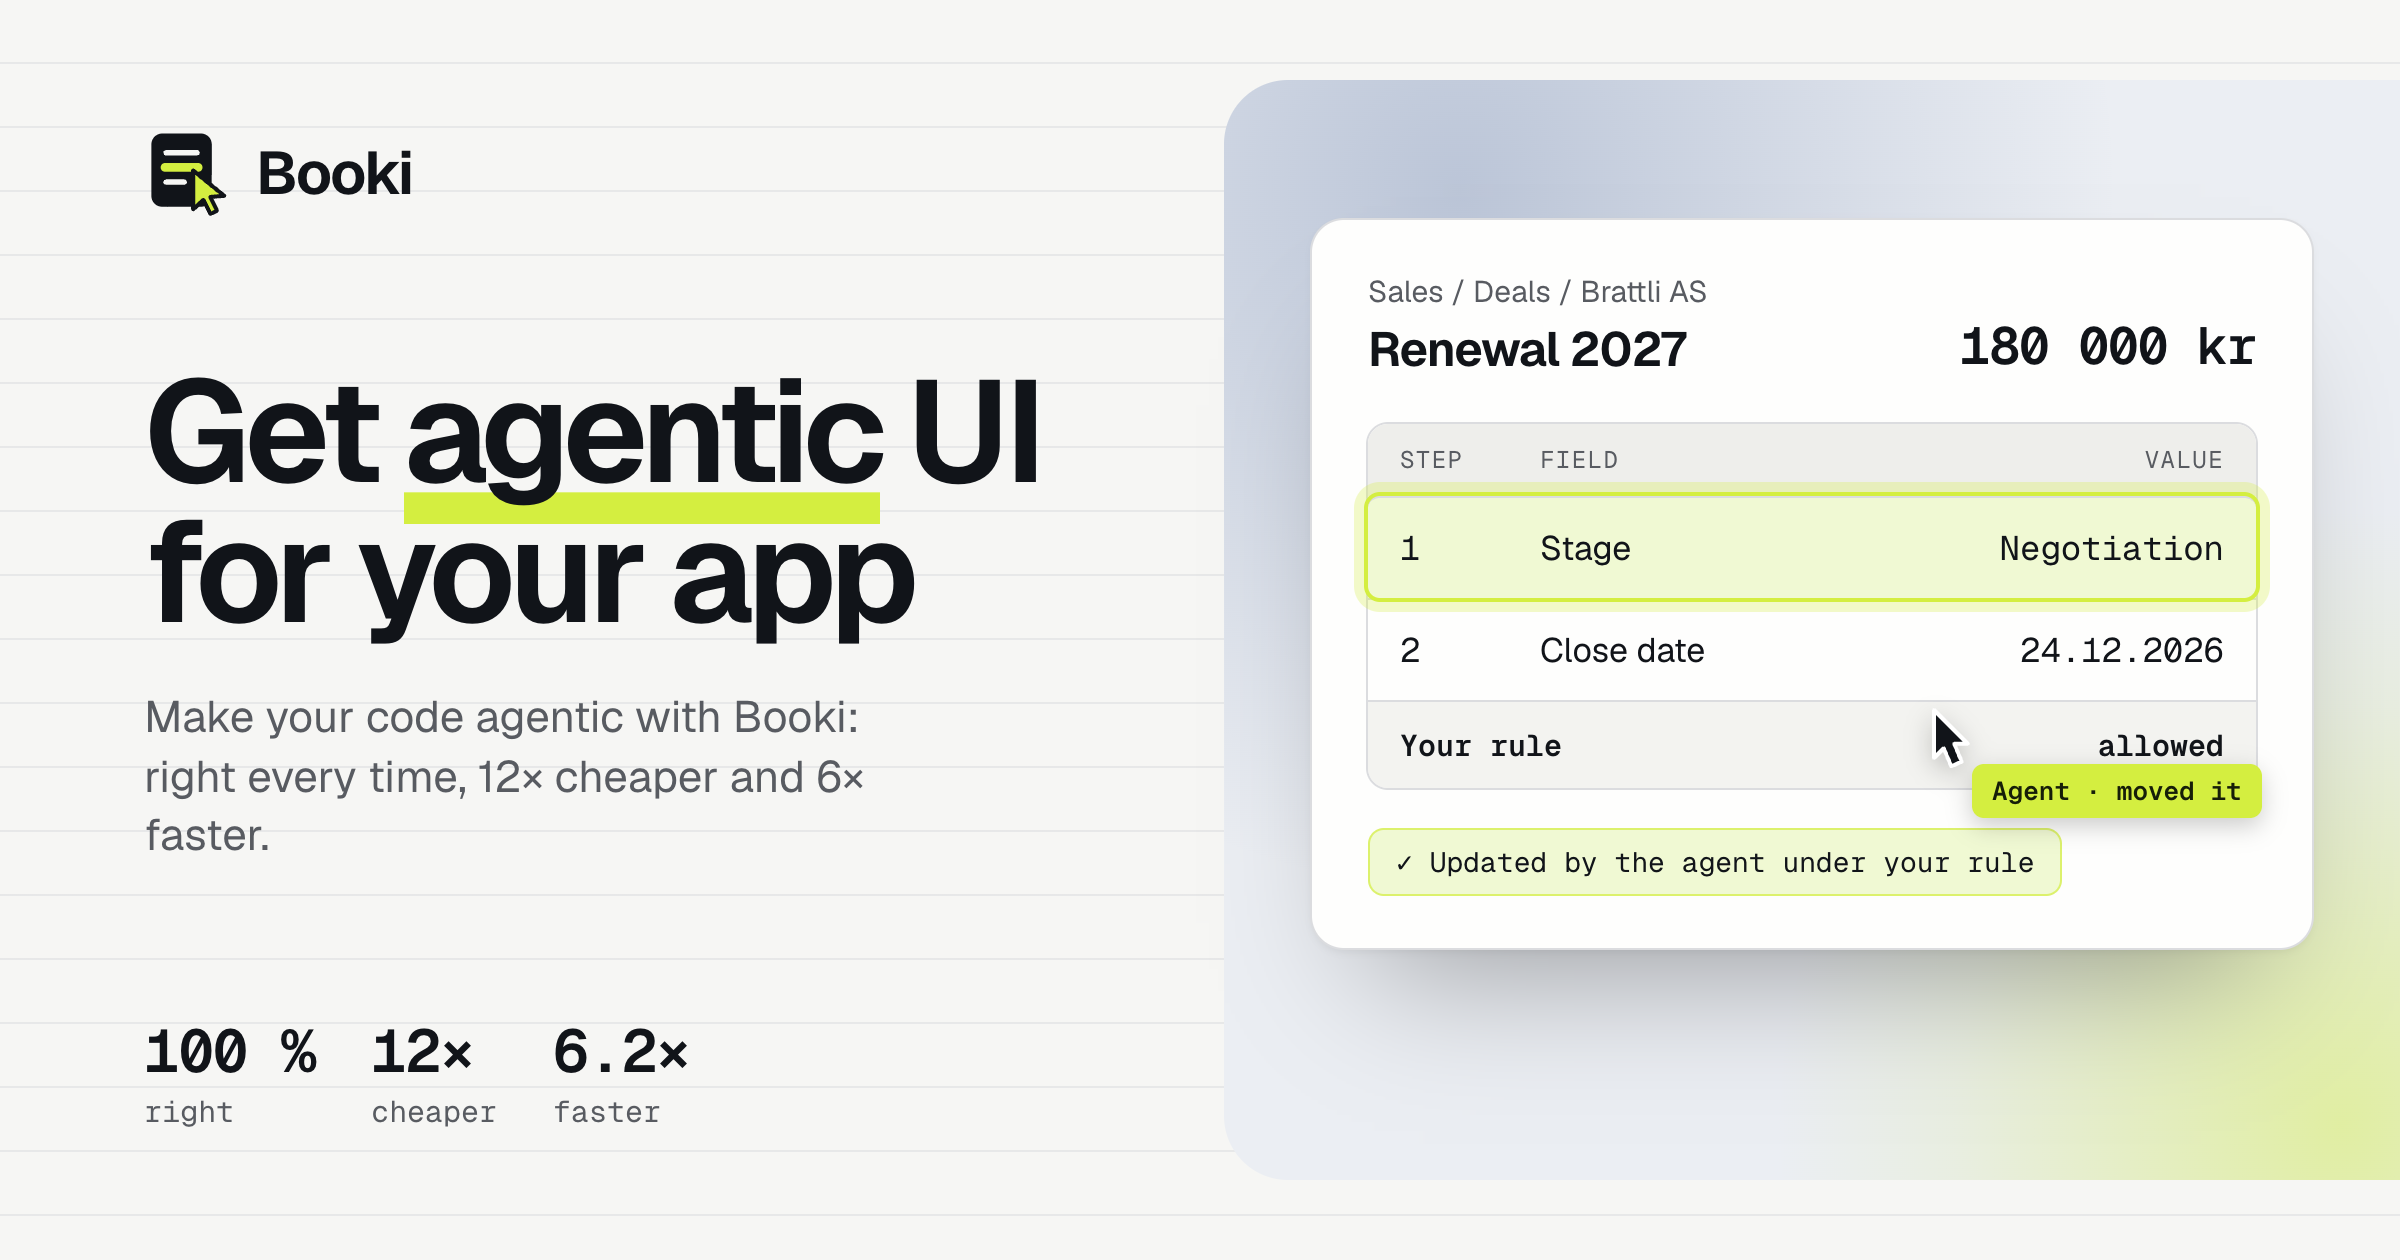
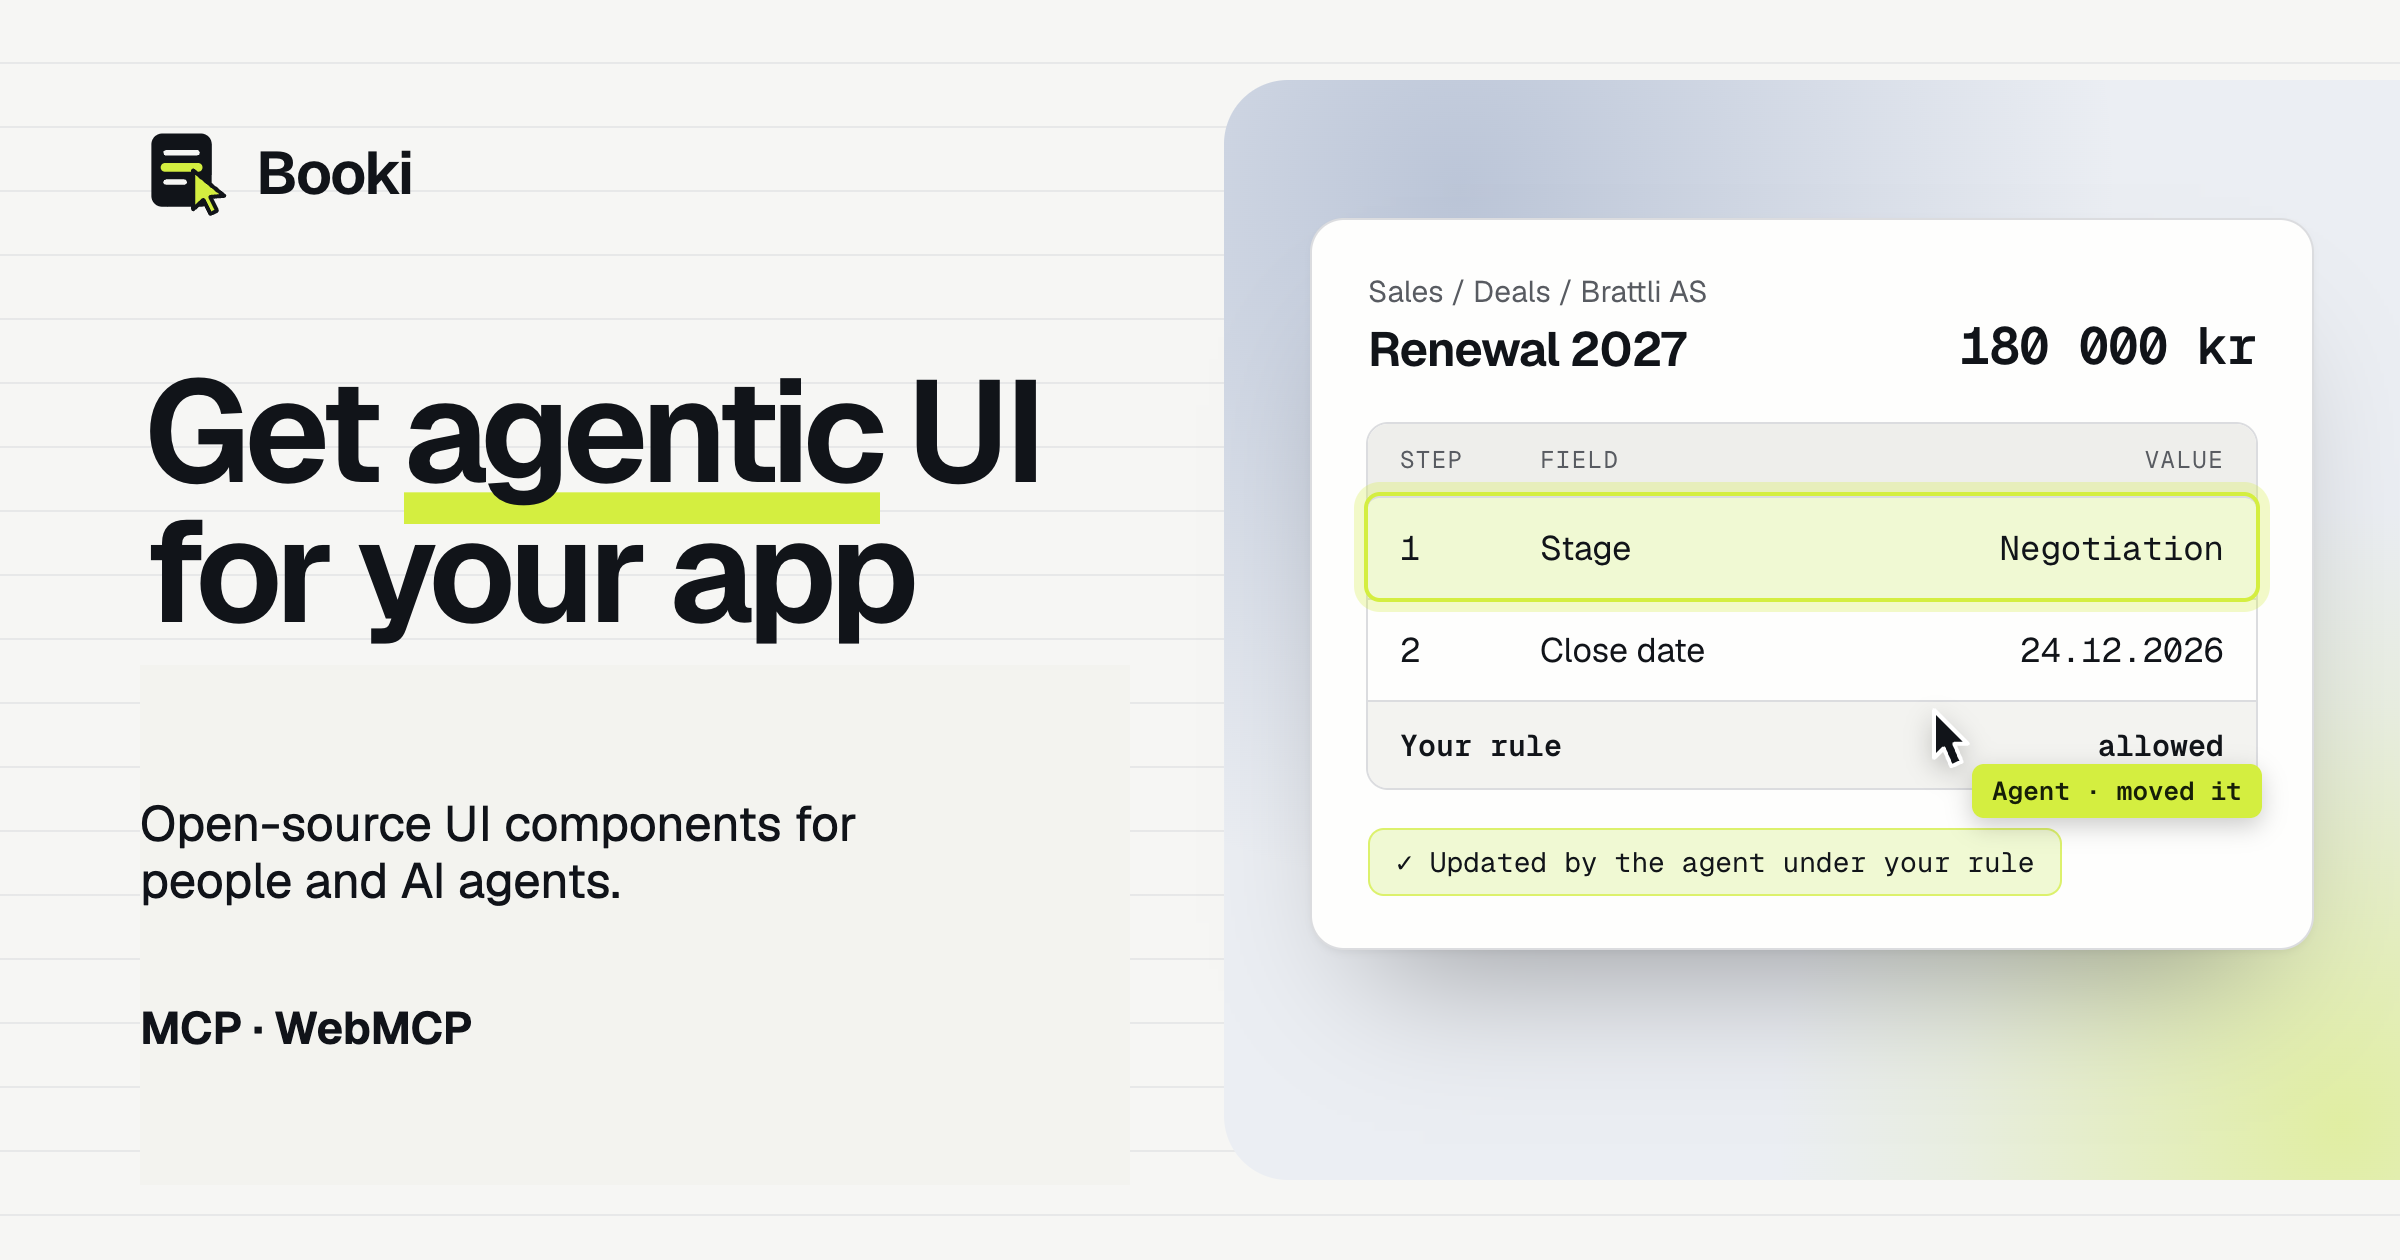
Align Booki search and social previews with whole-app positioning

Changed region(s): [[0.0625, 0.5571, 0.375, 0.7119], [0.0625, 0.8048, 0.2812, 0.8976]]

diff --git a/apps/www/index.html b/apps/www/index.html
@@ -40,23 +40,26 @@
     <link rel="preload" href="/fonts/Geist-Variable.woff2" as="font" type="font/woff2" crossorigin />
     <link rel="preload" href="/fonts/GeistMono-Variable.woff2" as="font" type="font/woff2" crossorigin />
     <link rel="icon" type="image/svg+xml" href="/favicon.svg" />
+    <meta property="og:site_name" content="Booki" />
     <meta property="og:type" content="website" />
-    <meta property="og:title" content="Booki: UI for people and agents" />
+    <meta property="og:title" content="Booki: Agent-first UI for your app" />
     <meta
       property="og:description"
-      content="Build agent-first web apps: controls a person uses like any form and an agent operates by name, for React, Vue, Svelte, Solid or web components, under your rules, with a visible agent cursor and every step in the audit trail."
+      content="Open-source UI components for people and AI agents. Build forms, tables and workflows with named actions and human approvals."
     />
     <meta property="og:url" content="https://booki.dev/" />
     <meta property="og:image" content="https://booki.dev/og.png" />
-    <meta property="og:image:width" content="1200" />
-    <meta property="og:image:height" content="630" />
+    <meta property="og:image:width" content="2400" />
+    <meta property="og:image:height" content="1260" />
     <meta property="og:image:alt" content="Booki: get agentic UI for your app. A deal updated by an agent under the company's rule." />
     <meta name="twitter:card" content="summary_large_image" />
+    <meta name="twitter:title" content="Booki: Agent-first UI for your app" />
+    <meta name="twitter:description" content="Open-source UI components for people and AI agents. Build forms, tables and workflows with named actions and human approvals." />
     <meta name="twitter:image" content="https://booki.dev/og.png" />
-    <title>Booki: UI for people and agents</title>
+    <title>Booki: Agent-first UI for your app</title>
     <meta
       name="description"
-      content="Build agent-first web apps: controls a person uses like any form and an agent operates by name, for React, Vue, Svelte, Solid or web components, under your rules, with a visible agent cursor and every step in the audit trail."
+      content="Open-source UI components for people and AI agents. Build forms, tables and workflows with named actions and human approvals."
     />
   </head>
   <body>

diff --git a/apps/www/src/lib/lang.tsx b/apps/www/src/lib/lang.tsx
@@ -44,12 +44,12 @@ export type PageMeta = { title: { en: string; nb: string }; description: { en: s
 
 export const SITE_META: PageMeta = {
   title: {
-    en: "Booki: UI for people and agents",
-    nb: "Booki: UI for mennesker og agenter",
+    en: "Booki: Agent-first UI for your app",
+    nb: "Booki: Agentisk UI for appen din",
   },
   description: {
-    en: "Build agent-first web apps: controls a person uses like any form and an agent operates by name, under your rules, with a visible agent cursor and every step in the audit trail.",
-    nb: "Bygg agent-first webapper: kontroller en person bruker som et vanlig skjema og en agent styrer ved navn, under reglene deres, med synlig agentpeker og hvert steg i revisjonssporet.",
+    en: "Open-source UI components for people and AI agents. Build forms, tables and workflows with named actions and human approvals.",
+    nb: "Åpne UI-komponenter for mennesker og AI-agenter. Bygg skjemaer, tabeller og arbeidsflyter med navngitte handlinger og menneskelig godkjenning.",
   },
 };
 
@@ -69,6 +69,8 @@ export function LangProvider({ children }: { children: ReactNode }) {
     document.documentElement.lang = lang === "nb" ? "nb" : "en";
     document.title = title;
     document.querySelector('meta[name="description"]')?.setAttribute("content", description);
+    document.querySelector('meta[name="twitter:title"]')?.setAttribute("content", title);
+    document.querySelector('meta[name="twitter:description"]')?.setAttribute("content", description);
     document.querySelector('meta[property="og:title"]')?.setAttribute("content", title);
     document.querySelector('meta[property="og:description"]')?.setAttribute("content", description);
   }, [lang, pageMeta]);
